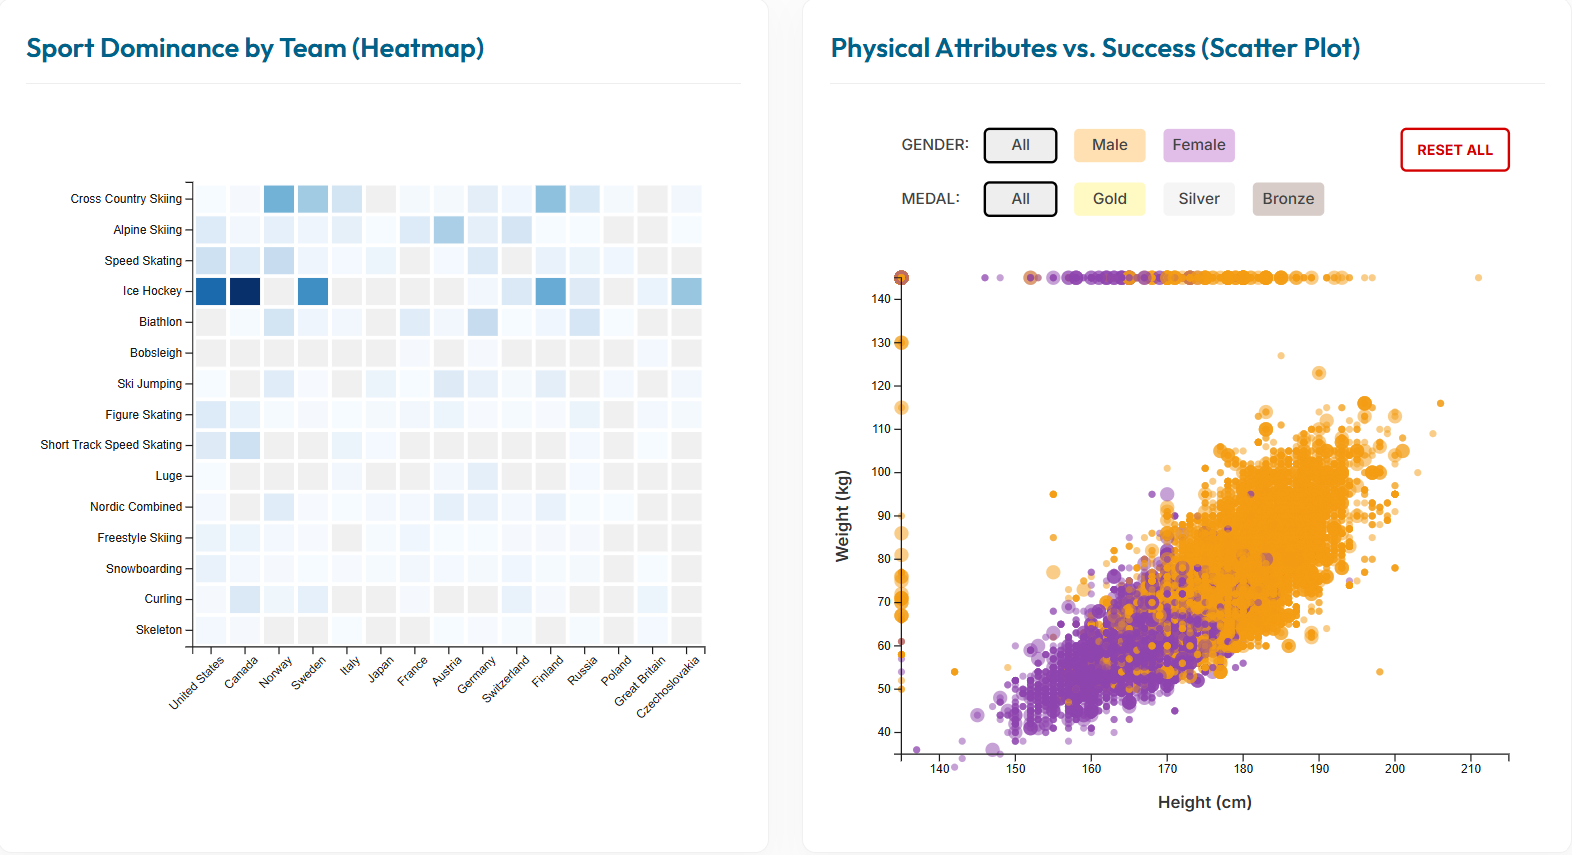
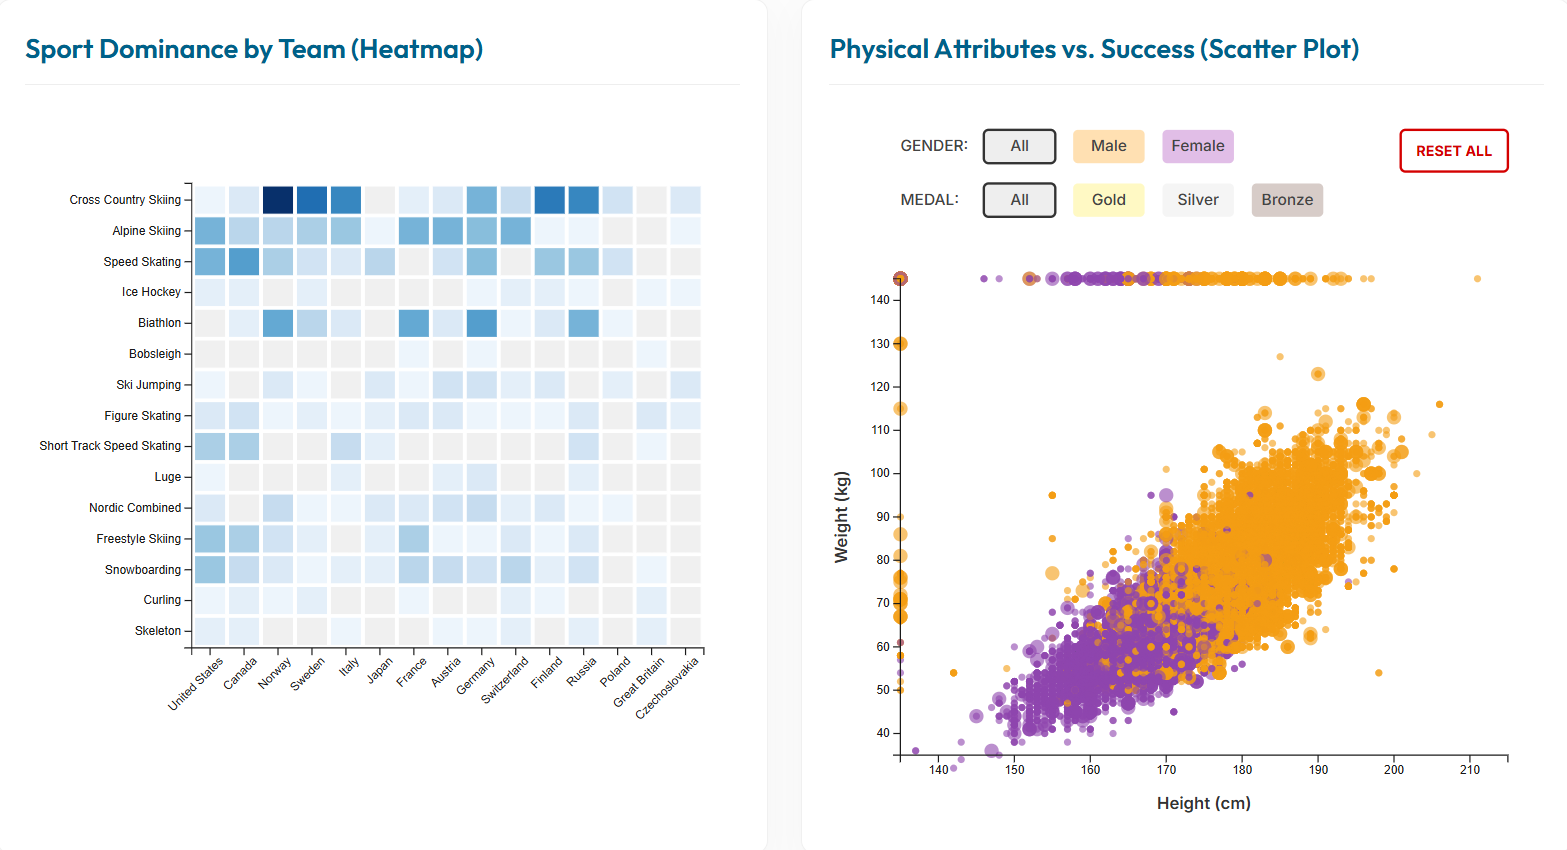
Update file

diff --git a/Group_14_Assignment_2/index.js b/Group_14_Assignment_2/index.js
@@ -13,11 +13,12 @@ const config = {
         margin: { top: 140, right: 30, bottom: 60, left: 60 }
     },
     colors: {
-        male: "#f39c12",   // High-contrast Orange
-        female: "#8e44ad", // High-contrast Purple
+        male: "#f39c12",   // Inclusive Orange
+        female: "#8e44ad", // Inclusive Purple
         active: "#006189",
         bg: "#fcfcfc"
-    }
+    },
+    transitionDuration: 750 // For gradual transitions
 };
 
 // Global State
@@ -43,6 +44,21 @@ function initDashboard() {
 }
 
 /**
+ * NORMALIZATION: Count unique medals per Event/Team/Year 
+ * to avoid team-sport bias (e.g. Hockey vs Skiing)
+ */
+function getNormalizedMedalCount(data, sport, team) {
+    const subset = data.filter(d => 
+        d.Sport === sport && 
+        d.Team === team && 
+        d.Medal && d.Medal !== 'NA'
+    );
+    // Group by Event and Year to count unique medals
+    const uniqueMedals = d3.groups(subset, d => d.Event, d => d.Year);
+    return uniqueMedals.length; 
+}
+
+/**
  * HEATMAP: Sport Dominance by Team
  */
 function renderHeatmap() {
@@ -63,7 +79,7 @@ function renderHeatmap() {
     const matrix = [];
     topSports.forEach(sport => {
         topTeams.forEach(team => {
-            const count = globalData.filter(d => d.Sport === sport && d.Team === team && d.Medal && d.Medal !== 'NA').length;
+            const count = getNormalizedMedalCount(globalData, sport, team);
             matrix.push({ sport, team, count });
         });
     });
@@ -72,17 +88,20 @@ function renderHeatmap() {
     const y = d3.scaleBand().domain(topSports).range([0, innerHeight]).padding(0.08);
     const color = d3.scaleSequential(d3.interpolateBlues).domain([0, d3.max(matrix, d => d.count)]);
 
-    g.selectAll(".cell")
+    const cells = g.selectAll(".cell")
         .data(matrix).enter().append("rect")
         .attr("class", d => `cell ${currentFilters.team === d.team && currentFilters.sport === d.sport ? 'selected' : ''}`)
         .attr("x", d => x(d.team)).attr("y", d => y(d.sport))
         .attr("width", x.bandwidth()).attr("height", y.bandwidth())
         .attr("fill", d => d.count === 0 ? "#f0f0f0" : color(d.count))
         .on("mouseover", (event, d) => {
-            showTooltip(event, `<span class="tooltip-title">${d.team}</span><b>Sport:</b> ${d.sport}<br/><b>Medals:</b> ${d.count}`);
+            showTooltip(event, `<span class="tooltip-title">${d.team}</span><b>Sport:</b> ${d.sport}<br/><b>Normalized Medals:</b> ${d.count}<br/><small>(Counts unique event wins)</small>`);
         })
         .on("mouseout", hideTooltip)
         .on("click", (event, d) => handleHeatmapClick(d));
+
+    // Transition for selection feedback
+    cells.transition().duration(200).style("opacity", 1);
 
     g.append("g").attr("transform", `translate(0,${innerHeight})`).call(d3.axisBottom(x))
         .selectAll("text").attr("transform", "rotate(-45)").attr("text-anchor", "end");
@@ -90,7 +109,7 @@ function renderHeatmap() {
 }
 
 /**
- * SCATTER PLOT: Height vs Weight
+ * SCATTER PLOT: Height vs Weight with Transitions
  */
 function renderScatterPlot() {
     const { width, height, margin } = config.scatter;
@@ -98,33 +117,50 @@ function renderScatterPlot() {
     const innerHeight = height - margin.top - margin.bottom;
 
     const svg = d3.select("#scatter-plot").attr("viewBox", `0 0 ${width} ${height}`);
-    svg.selectAll("*").remove();
-    const g = svg.append("g").attr("transform", `translate(${margin.left},${margin.top})`);
+    
+    // We only remove elements if they don't exist yet, to allow transitions
+    if (svg.select("g.main-group").empty()) {
+        svg.selectAll("*").remove();
+        const g = svg.append("g").attr("class", "main-group").attr("transform", `translate(${margin.left},${margin.top})`);
+        g.append("g").attr("class", "dots-group");
+        g.append("g").attr("class", "x-axis").attr("transform", `translate(0,${innerHeight})`);
+        g.append("g").attr("class", "y-axis");
+        g.append("text").attr("class", "axis-label").attr("x", innerWidth/2).attr("y", innerHeight + 45).attr("text-anchor", "middle").text("Height (cm)");
+        g.append("text").attr("class", "axis-label").attr("transform", "rotate(-90)").attr("x", -innerHeight/2).attr("y", -45).attr("text-anchor", "middle").text("Weight (kg)");
+        renderInternalControls(svg);
+    }
 
+    const g = svg.select("g.main-group");
     const plotData = filteredData.filter(d => d.Height && d.Weight);
     const x = d3.scaleLinear().domain([135, 215]).range([0, innerWidth]);
     const y = d3.scaleLinear().domain([35, 145]).range([innerHeight, 0]);
 
-    // Draw dots
-    g.selectAll(".dot")
-        .data(plotData).enter().append("circle")
+    // Update Axes
+    g.select(".x-axis").transition().duration(config.transitionDuration).call(d3.axisBottom(x));
+    g.select(".y-axis").transition().duration(config.transitionDuration).call(d3.axisLeft(y));
+
+    // Data Join for dots
+    const dots = g.select(".dots-group").selectAll(".dot").data(plotData, d => d.ID);
+
+    // Exit
+    dots.exit().transition().duration(config.transitionDuration).style("opacity", 0).remove();
+
+    // Enter + Update
+    dots.enter().append("circle")
         .attr("class", "dot")
         .attr("cx", d => x(d.Height)).attr("cy", d => y(d.Weight))
-        .attr("r", d => d.Medal && d.Medal !== 'NA' ? 6 : 3)
+        .attr("r", 0) // Start small for animation
         .attr("fill", d => d.Sex === 'M' ? config.colors.male : config.colors.female)
         .on("mouseover", (event, d) => {
             showTooltip(event, `<span class="tooltip-title">${d.Name}</span><b>Team:</b> ${d.Team}<br/><b>Sport:</b> ${d.Sport}<br/><b>H/W:</b> ${d.Height}cm / ${d.Weight}kg<br/><b>Medal:</b> ${d.Medal || 'None'}`);
         })
-        .on("mouseout", hideTooltip);
-
-    // Legends & Reset (Pure Mark Interaction)
-    renderInternalControls(svg);
-
-    // Axes
-    g.append("g").attr("transform", `translate(0,${innerHeight})`).call(d3.axisBottom(x));
-    g.append("g").call(d3.axisLeft(y));
-    g.append("text").attr("class", "axis-label").attr("x", innerWidth/2).attr("y", innerHeight + 45).attr("text-anchor", "middle").text("Height (cm)");
-    g.append("text").attr("class", "axis-label").attr("transform", "rotate(-90)").attr("x", -innerHeight/2).attr("y", -45).attr("text-anchor", "middle").text("Weight (kg)");
+        .on("mouseout", hideTooltip)
+      .merge(dots)
+        .transition().duration(config.transitionDuration)
+        .attr("cx", d => x(d.Height))
+        .attr("cy", d => y(d.Weight))
+        .attr("r", d => d.Medal && d.Medal !== 'NA' ? 6 : 3)
+        .style("opacity", 0.6);
 }
 
 /**
@@ -142,6 +178,7 @@ function renderInternalControls(svg) {
             currentFilters = { sport: null, team: null, gender: 'All', medal: 'All' };
             applyFilters();
             renderHeatmap();
+            renderInternalControls(svg); // Redraw to update active states
         });
     
     resetG.append("rect").attr("width", 90).attr("height", 35).attr("rx", 4).attr("fill", "#fff").attr("stroke", "#d40000").attr("stroke-width", 2);
@@ -153,22 +190,23 @@ function renderInternalControls(svg) {
     
     const genders = [
         { label: 'All', value: 'All', color: '#eee' },
-        { label: 'Male', value: 'M', color: "#ffe0b2" }, // Light Orange
-        { label: 'Female', value: 'F', color: "#e1bee7" } // Light Purple
+        { label: 'Male', value: 'M', color: "#ffe0b2" },
+        { label: 'Female', value: 'F', color: "#e1bee7" }
     ];
 
-    genderG.selectAll(".legend-item")
+    const genderItems = genderG.selectAll(".legend-item")
         .data(genders).enter().append("g")
         .attr("class", d => `legend-item ${currentFilters.gender === d.value ? 'active' : ''}`)
         .attr("transform", (d, i) => `translate(${70 + i * 75}, 0)`)
         .on("click", (event, d) => {
             currentFilters.gender = d.value;
             applyFilters();
-        })
-        .call(item => {
-            item.append("rect").attr("width", 60).attr("height", 28).attr("rx", 4).attr("fill", d => d.color);
-            item.append("text").attr("x", 30).attr("y", 18).attr("text-anchor", "middle").attr("fill", "#333").attr("font-weight", "600").text(d => d.label);
+            renderInternalControls(svg); 
         });
+
+    genderItems.append("rect").attr("width", 60).attr("height", 28).attr("rx", 4).attr("fill", d => d.color)
+        .style("stroke", d => currentFilters.gender === d.value ? "#333" : "none").style("stroke-width", "2px");
+    genderItems.append("text").attr("x", 30).attr("y", 18).attr("text-anchor", "middle").attr("fill", "#333").attr("font-weight", "600").text(d => d.label);
 
     // Medal Row
     const medalG = controlsG.append("g").attr("class", "legend-group").attr("transform", "translate(0, 45)");
@@ -176,23 +214,24 @@ function renderInternalControls(svg) {
 
     const medals = [
         { label: 'All', color: '#eee' },
-        { label: 'Gold', color: '#fff9c4' },   // Light Gold
-        { label: 'Silver', color: '#f5f5f5' }, // Light Silver
-        { label: 'Bronze', color: '#d7ccc8' }  // Light Bronze
+        { label: 'Gold', color: '#fff9c4' },
+        { label: 'Silver', color: '#f5f5f5' },
+        { label: 'Bronze', color: '#d7ccc8' }
     ];
 
-    medalG.selectAll(".legend-item")
+    const medalItems = medalG.selectAll(".legend-item")
         .data(medals).enter().append("g")
         .attr("class", d => `legend-item ${currentFilters.medal === d.label ? 'active' : ''}`)
         .attr("transform", (d, i) => `translate(${70 + i * 75}, 0)`)
         .on("click", (event, d) => {
             currentFilters.medal = d.label;
             applyFilters();
-        })
-        .call(item => {
-            item.append("rect").attr("width", 60).attr("height", 28).attr("rx", 4).attr("fill", d => d.color);
-            item.append("text").attr("x", 30).attr("y", 18).attr("text-anchor", "middle").attr("fill", "#333").attr("font-weight", "600").text(d => d.label);
+            renderInternalControls(svg);
         });
+
+    medalItems.append("rect").attr("width", 60).attr("height", 28).attr("rx", 4).attr("fill", d => d.color)
+        .style("stroke", d => currentFilters.medal === d.label ? "#333" : "none").style("stroke-width", "2px");
+    medalItems.append("text").attr("x", 30).attr("y", 18).attr("text-anchor", "middle").attr("fill", "#333").attr("font-weight", "600").text(d => d.label);
 }
 
 function applyFilters() {
@@ -207,7 +246,7 @@ function applyFilters() {
 function handleHeatmapClick(d) {
     currentFilters.team = d.team;
     currentFilters.sport = d.sport;
-    renderHeatmap(); // Update selection visual
+    renderHeatmap(); 
     applyFilters();
 }
 

diff --git a/Group_14_Assignment_2/design_choices.md b/Group_14_Assignment_2/design_choices.md
@@ -12,8 +12,17 @@ To strictly adhere to the Bauhaus "Form Follows Function" philosophy and the ass
    - **Mechanism:** Clicking a cell in the **Heatmap** facets the **Scatter Plot** to show only the athletes corresponding to that specific Team and Sport.
    - **Justification:** This coordination fulfills the "Faceting" requirement by allowing one view to act as a navigational lens for the other, facilitating deep-dive discovery into specific sport-team dominance.
 
-3. **Manipulation (Reset Mark):**
-   - **Mechanism:** A dedicated **RESET ALL** SVG group (rect + text) allows the user to manipulate the global state and return to the high-level overview without relying on external UI elements.
+3. **Mental Map Stability (Gradual Transitions):**
+   - **Mechanism:** All interactions (filtering, faceting, resizing) trigger smooth **D3 Transitions (750ms)**.
+   - **Justification:** Following the instructor's advice, we avoided instantaneous "jumping" between states. Gradual transitions help the viewer maintain their "mental map" of the data, allowing them to follow individual dots as they appear, disappear, or move during a filter action.
+
+---
+
+## Analytical Rigor & Normalization
+
+To ensure a fair comparison across different types of Olympic sports, we implemented a robust measurement of success:
+
+- **Medal Normalization:** Team sports (e.g., Ice Hockey) naturally generate many rows in the raw dataset for a single victory. To prevent these from skewing the "Dominance" heatmap, our counting logic groups medals by **Event and Year**. This ensures that one Team Gold in Hockey carries the same weight as one Individual Gold in Skiing, providing a much more accurate view of sport popularity and dominance.
 
 ---
 
@@ -23,7 +32,7 @@ Following the **Royal Statistical Society (RSS)** best practices for visualizati
 
 - **Qualitative Palette Selection:** We replaced the stereotypical red/blue binary with a high-contrast **Purple (#e1bee7/8e44ad)** and **Orange (#ffe0b2/f39c12)** qualitative palette. This decision avoids gender bias and ensures the dashboard is accessible to users with color vision deficiencies (Color-Blind Safe).
 - **Double Encoding:** Success is encoded using both color and radius (medals are larger than non-medals), ensuring the "What" is identifiable even without color perception.
-- **Typography for Legibility:** All text labels adhere to a minimum size of **14px (approx. 10.5pt)** to ensure readability. Axis titles are bolded and set to **1.5rem** for clear information hierarchy.
+- **Typography for Legibility:** All text labels adhere to a minimum size of **14px (approx. 10.5pt)** with titles at **24px (18pt)**, ensuring the report is readable for users with visual impairments.
 
 ---
 